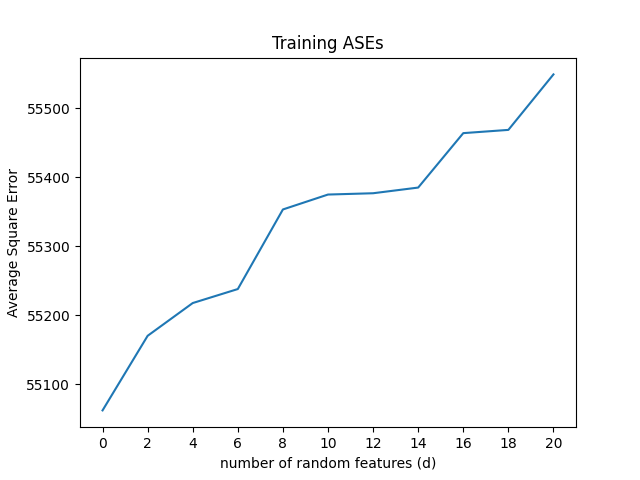
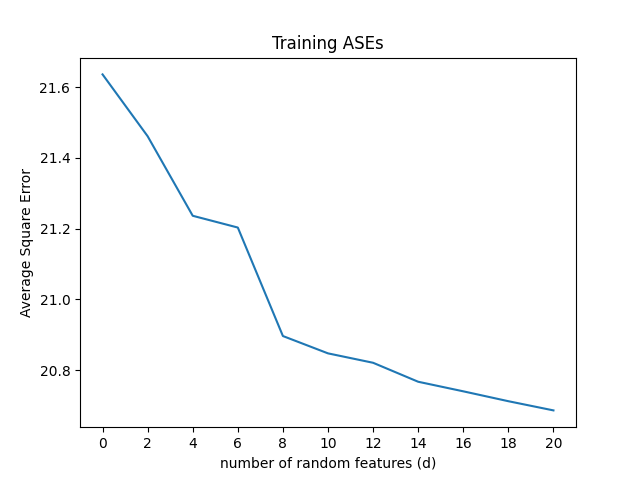
fixed ASE computation error

diff --git a/implementation1/q1_4.py b/implementation1/q1_4.py
@@ -16,7 +16,7 @@ def calc_w(x, y):
 
 #assumes that yhat comes from x*w
 def calc_ase(x, y, w):
-    return (1 / x.shape[0]) * sum((yi - yhati)**2 for yi in y for yhati in x @ w)
+    return sum((y-x.dot(w))**2) / x.shape[0]
 
 #returns features matrix with num columns of np.random.normal appended
 def append_cols(features, num):
@@ -53,7 +53,6 @@ training_entry_info = {
 #key = d, value = (matrix with d values, learned w from matrix, ase)
 training_data = { 0: training_entry_info}
 for i in range(2,22, 2):
-    training_entry_info = {}
     matrix = append_cols(training_data[i-2]["features"], 2)#add 2 random cols to previous random matrix
     weights = calc_w(matrix, Y)
     ase = calc_ase(matrix, Y, weights)
@@ -76,7 +75,7 @@ testing_entry_info = {
 testing_data = { 0: testing_entry_info}
 for i in range(2,22, 2):
     matrix = append_cols(testing_data[i-2]["features"], 2)#add 2 random cols to previous random matrix
-    ase = calc_ase(matrix, Y, training_data[i]["weights"]) #use training weight vector
+    ase = calc_ase(matrix, testY, training_data[i]["weights"]) #use training weight vector
     testing_data[i] = {"features": matrix,
                         "ase" : ase
                         }

diff --git a/implementation1/q1_2.py b/implementation1/q1_2.py
@@ -15,7 +15,7 @@ def calc_w(x, y):
 
 #assumes that yhat comes from x*w
 def calc_ase(x, y, w):
-    return (1 / x.shape[0]) * sum((yi - yhati)**2 for yi in y for yhati in x @ w)
+     return sum((y-x.dot(w))**2) / x.shape[0]
 
 args = get_args()
 

diff --git a/implementation1/q1_3.py b/implementation1/q1_3.py
@@ -15,7 +15,7 @@ def calc_w(x, y):
 
 #assumes that yhat comes from x*w
 def calc_ase(x, y, w):
-    return (1 / x.shape[0]) * sum((yi - yhati)**2 for yi in y for yhati in x @ w)
+    return sum((y-x.dot(w))**2) / x.shape[0]
 
 
 args = get_args()
